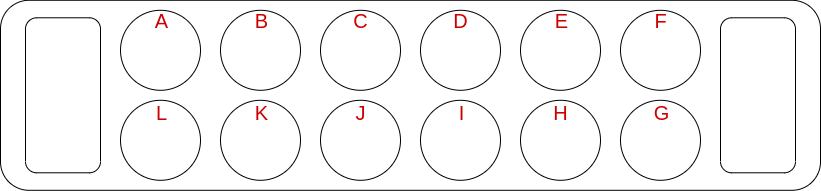
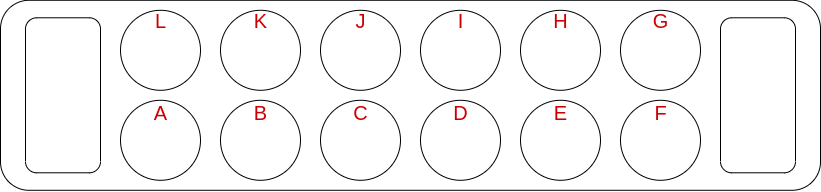
fixed

diff --git a/ouri/Tabuleiro GUI/teste.html b/ouri/Tabuleiro GUI/teste.html
@@ -9,6 +9,8 @@
 
 <img src="novaJogada.png" alt="myImg">
 
+<img src="array.png" alt="myImg2">
+
 <button type="button"
 onclick="changePicture()">
 atualizar</button>

diff --git a/ouri/main.py b/ouri/main.py
@@ -1,46 +1,8 @@
 import sys
 from pyswip import Prolog
+from joga import joga
 
-#//TODO Novo nome
-def joga(lista, pos):
-    pos -= 1
-    #distribui sementes
-    valor = lista[pos] #numero sementes
-    i = pos
-    lista[pos] = 0
-    quociente = int(valor/11)
-    resto = valor % 11
-    #ciclo de distribuicao
-    while(valor != 0):
-        if(i == pos):   #wrap
-            i -= 1
-        if(i == -1):
-            i = len(lista) - 1
-        lista[i] += quociente
-        valor -= quociente
-        if(resto > 0):
-            lista[i] += 1
-            resto -= 1
-            valor -= 1
-        i -= 1
-    #captura
-    i += 1
-    pontos = 0
-    #ciclo de captura
-    while(lista[i] == 2 or lista[i] == 3):
-        pontos += lista[i]
-        lista[i] = 0
-        i += 1
-        if(i == len(lista)): #wrap
-            i = 0
-    
-    return lista, pontos
 
-def jogada_prolog(tabuleiro, pos):
-    lista, pontos = joga(tabuleiro, pos)
-    lista_str = str(lista).replace(" ", "") #limpa str para o prolog
-    lista_str = lista_str[1:-1] + "\n" + str(pontos)
-    print(lista_str)
 
 def imprime_tabuleiro(tabuleiro):
     print("Pontos esquerda: ")
@@ -53,10 +15,10 @@ def imprime_tabuleiro(tabuleiro):
 def argumentos():
     lado = ""
     
-    while lado != "e" and lado != "d":
-        lado = input("Qual o meu lado 'e' ou 'd'?\n-> ")
+    while lado != "p" and lado != "s":
+        lado = input("Primeiro ou segundo: 'p' ou 's'?\n-> ")
 
-    lado = (lado == "e")
+    lado = (lado == "p")
 
     return lado
     
@@ -93,7 +55,10 @@ def jogada_bot(tabuleiro, lado):
     return tabuleiro_n
 
 def jogada_adv(tabuleiro, lado):
-    escolha = input("que casa escolhes?\n-> ")
+    escolha = int(input("que casa escolhes?\n-> "))
+
+    if lado:
+        escolha += 6
 
     tabuleiro_n, pontos = joga(tabuleiro[2:], escolha)
 
@@ -119,9 +84,9 @@ if __name__ == '__main__':
     lado = argumentos()
 
     if lado:
-        prolog.asserta("jogador(e)")
+        prolog.asserta("jogador(p)")
     else:
-        prolog.asserta("jogador(d)")
+        prolog.asserta("jogador(s)")
 
     tabuleiro = [0,0,4,4,4,4,4,4,4,4,4,4,4,4]
 

diff --git a/ouri/joga.py b/ouri/joga.py
@@ -6,32 +6,41 @@ def joga(lista, pos):
     #distribui sementes
     valor = lista[pos] #numero sementes
     i = pos
-    lista[pos] = 0
+    del lista[pos] #remove as sementes
+
     quociente = int(valor/11)
     resto = valor % 11
+
     #ciclo de distribuicao
     while(valor != 0):
-        if(i == pos):   #wrap
-            i -= 1
-        if(i == -1):
-            i = len(lista) - 1
+        if(i == len(lista)): #wrap
+            i = 0
+
         lista[i] += quociente
         valor -= quociente
         if(resto > 0):
             lista[i] += 1
             resto -= 1
             valor -= 1
-        i -= 1
+        i += 1
+
+    #adiciona casa vazia
+    lista.insert(pos, 0)
+
+    i -= 1 #ultima posicao tocada
+
+    if(pos < 6 and i < 6) or (pos >= 6 and i >= 6):
+        return lista, 0
+
     #captura
-    i += 1
     pontos = 0
     #ciclo de captura
     while(lista[i] == 2 or lista[i] == 3):
         pontos += lista[i]
         lista[i] = 0
-        i += 1
-        if(i == len(lista)): #wrap
-            i = 0
+        i -= 1
+        if(i == -1): #wrap
+            i = len(lista) - 1
     
     return lista, pontos
 
@@ -81,5 +90,8 @@ if __name__ == '__main__':
 
     tab = list(tab.split(","))
     tab = list(map(int, tab))
+
+    #tab = [2, 1, 1, 0, 8, 7, 7, 7, 2, 7, 1, 3]
+    #x = 12
 
     jogada_prolog(tab, x)

diff --git a/ouri/Tabuleiro GUI/tab.py b/ouri/Tabuleiro GUI/tab.py
@@ -10,8 +10,20 @@ except ModuleNotFoundError:
 
 def draw(Tab):
 	boardIm = Image.open('ouri.png')
-#									1			2		3			4			5			6		7			8			9			10			11			12
-	pos = [(38, 75), (735, 75), (138, 30), (238, 30), (338, 30), (438, 30), (538, 30), (638, 30), (638, 120),(538, 120) , (438, 120), (338, 120), (238, 120), (138, 120)]
+
+	pos = [(38, 75), (735, 75),
+	(138, 120),
+	(238, 120),
+	(338, 120),
+	(438, 120),
+	(538, 120),
+	(638, 120),
+	(638, 30),
+	(538, 30),
+	(438, 30),
+	(338, 30),
+	(238, 30),
+	(138, 30)]
 
 	numbers = ['1.png', '2.png', '3.png', '4.png', '5.png', '6.png', '7.png', '8.png', '9.png', '10.png', '11.png', '12.png', '13.png', '14.png', '15.png', '16.png', '17.png', '18.png', '19.png', '20.png', '21.png', '22.png', '23.png', '24.png', '25.png']
 
@@ -23,7 +35,7 @@ def draw(Tab):
 
 
 def main():
-	Tab = [1,0, 1,2,1,3,1,2,1,0,7,0,2,0]
+	Tab = [1,0, 1,2,3,4,5,6,7,8,9,10,11,12]
 	draw(Tab)
 
 
